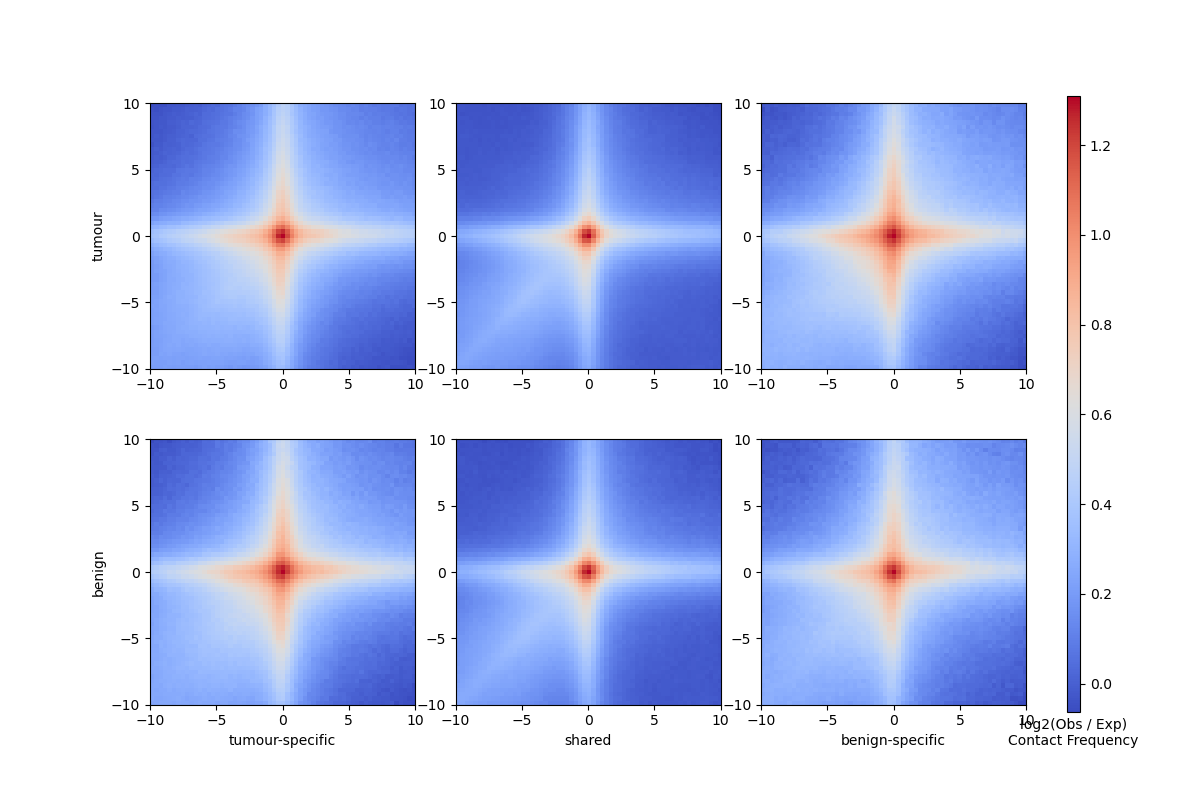
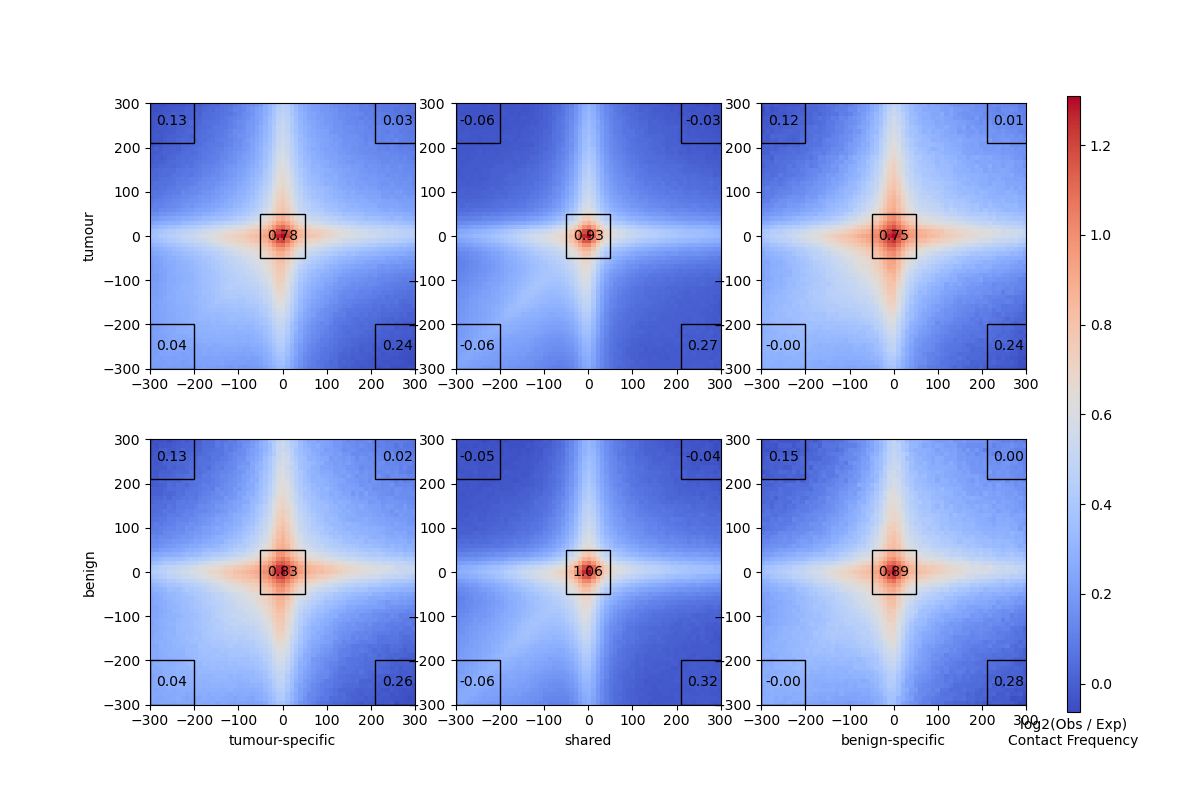
Updated loop APA plots

diff --git a/Results/2020-10-06_loops/plot-apa.py b/Results/2020-10-06_loops/plot-apa.py
@@ -16,7 +16,7 @@ mpl.use("agg")
 
 import matplotlib.pyplot as plt
 from matplotlib.gridspec import GridSpec
-import scipy.stats as stats
+import matplotlib.patches as patches
 import pickle
 import pandas as pd
 from itertools import chain
@@ -43,6 +43,13 @@ SAMPLE_TYPES = ["benign", "tumour"]
 # ==============================================================================
 def filter_arr(x: np.ndarray) -> np.ndarray:
     return x[~np.isnan(x) & np.isfinite(x)]
+
+
+# Helper function for converting matrix index coordinates to spatial coordinates, relative to loop centre
+# Returns values in kbp
+def idx_to_locus(x: int, res: int = RES, shift: int = SHIFT_SIZE) -> int:
+    n_rows = (2 * SHIFT_SIZE + 1) // RES
+    return (x - n_rows // 2) * res // 1000
 
 
 # ==============================================================================
@@ -135,6 +142,49 @@ specific_apa = {
         ),
     },
 }
+
+# coordinates are (row_lo, row_hi, col_lo, col_hi)
+mtx_side_length = specific_apa["tumour"]["tumour-specific"].shape[0]
+box_side_length = 10
+annot_coords = {
+    "top left": (0, box_side_length, 0, box_side_length),
+    "top right": (
+        0,
+        box_side_length,
+        mtx_side_length - box_side_length,
+        mtx_side_length,
+    ),
+    "centre": (
+        (mtx_side_length - box_side_length) // 2,
+        (mtx_side_length + box_side_length) // 2,
+        (mtx_side_length - box_side_length) // 2,
+        (mtx_side_length + box_side_length) // 2,
+    ),
+    "bottom left": (
+        mtx_side_length - box_side_length,
+        mtx_side_length,
+        0,
+        box_side_length,
+    ),
+    "bottom right": (
+        mtx_side_length - box_side_length,
+        mtx_side_length,
+        mtx_side_length - box_side_length,
+        mtx_side_length,
+    ),
+}
+# calculate mean values over the centre and corners
+# to be added over the plots
+plot_annots = {}
+for i, sample_type in enumerate(["tumour", "benign"]):
+    plot_annots[sample_type] = {}
+    for j, loop_type in enumerate(["tumour-specific", "shared", "benign-specific"]):
+        plot_annots[sample_type][loop_type] = {}
+        for k, v in annot_coords.items():
+            plot_annots[sample_type][loop_type][k] = np.nanmean(
+                specific_apa[sample_type][loop_type][v[0] : v[1], v[2] : v[3]]
+            )
+
 
 # ==============================================================================
 # Plots
@@ -320,14 +370,40 @@ gs = GridSpec(
 # plotting options
 plt.figure(figsize=(4 * (ncols - 1), 4 * nrows))
 opts = dict(
-    extent=[-10, 10, -10, 10],
+    extent=[-300, 300, -300, 300],
     cmap="coolwarm",
-)  # vmin=-2, vmax=2,)
-# make component plots
+)
+# make subplots
 for i, sample_type in enumerate(["tumour", "benign"]):
     for j, loop_type in enumerate(["tumour-specific", "shared", "benign-specific"]):
+        # initialize axes
         ax = plt.subplot(gs[i, j])
+        # plot APA pileup
         img = ax.matshow(np.log2(specific_apa[sample_type][loop_type]), **opts)
+        # add annotation rectangles to corners and centre
+        for k, v in plot_annots[sample_type][loop_type].items():
+            xy = (
+                idx_to_locus(annot_coords[k][0]),
+                idx_to_locus(annot_coords[k][2]),
+            )
+            width = (annot_coords[k][1] - annot_coords[k][0]) * RES // 1000
+            height = (annot_coords[k][3] - annot_coords[k][2]) * RES // 1000
+            rect = patches.Rectangle(
+                xy=xy,
+                width=width,
+                height=height,
+                linewidth=1,
+                edgecolor="#000000",
+                facecolor="none",
+            )
+            ax.add_patch(rect)
+            plt.text(
+                x=xy[0] + width // 2,
+                y=xy[1] + height // 2,
+                s="{:.2f}".format(np.log2(plot_annots[sample_type][loop_type][k])),
+                ha="center",
+                va="center",
+            )
         # add x axis labels to bottom-most subplots
         ax.yaxis.tick_left()
         ax.xaxis.tick_bottom()
